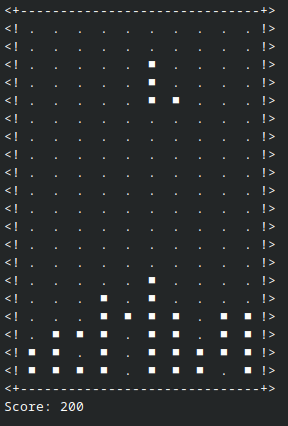
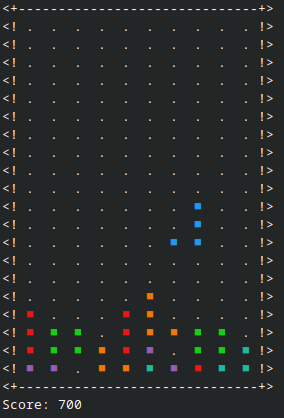
Implemented block coloring.

diff --git a/tetris.c b/tetris.c
@@ -1,3 +1,5 @@
+#include <stdarg.h>
+#include <stdint.h>
 #include <stdio.h>
 #include <stdlib.h>
 #include <unistd.h>
@@ -9,8 +11,7 @@
 //Macros
 #define WIDTH  10
 #define HEIGHT 20
-#define EMPTY '.'
-#define FULL '#'
+#define EMPTY 0
 #define DELAY_0 1000000  // 1000 ms
 #define DELAY_1 750000   // 750 ms
 #define DELAY_2 500000   // 500 ms
@@ -24,36 +25,51 @@
 #define FPS_60  16667
 #define FPS_30  33333
 
-//Global vars
-bool main_loop = true;
-
 struct Position {
     u_int8_t x;
     u_int8_t y;
 };
 
+typedef enum {
+    BLACK,
+    RED,
+    GREEN,
+    YELLOW,
+    BLUE,
+    MAGENTA,
+    CYAN,
+    WHITE
+} color;
+
+//Global vars
+bool main_loop = true;
+color current_color;
+
 //Play area operations
 void clear_screen();
 void draw_horizontal_line();
-void draw_area(char area[][WIDTH], int score);
+void draw_area(u_int8_t area[][WIDTH], int score);
 
 //Block operations
-void erase_block(char area[][WIDTH], struct Position *block);
-void draw_block(char area[][WIDTH], struct Position *block);
-bool move_block(char area[][WIDTH], struct Position *block, char direction);
-void spawn_block(char area[][WIDTH], struct Position *block);
-void rotate_block(char area[][WIDTH], struct Position *block);
+void erase_block(u_int8_t area[][WIDTH], struct Position *block);
+void draw_block(u_int8_t area[][WIDTH], struct Position *block);
+bool move_block(u_int8_t area[][WIDTH], struct Position *block, char direction);
+void spawn_block(u_int8_t area[][WIDTH], struct Position *block);
+void rotate_block(u_int8_t area[][WIDTH], struct Position *block);
 
 //Score counting functions
-void check_lines(char area[][WIDTH], int *score);
-void clear_line(char area[][WIDTH], size_t line);
+void check_lines(u_int8_t area[][WIDTH], int *score);
+void clear_line(u_int8_t area[][WIDTH], size_t line);
 long get_delay(int score);
+
+//Rendering
+void cprintf(const color color, const char * fstring, ...);
 
 int main(void) {
     srand(time(NULL));
 
     //Game area declaration
-    char play_area[HEIGHT][WIDTH];
+    u_int8_t play_area[HEIGHT][WIDTH];
 
     //Game area initialization
     for(int i = 0; i < HEIGHT; i++){
@@ -162,15 +178,15 @@ void draw_horizontal_line() {
     printf("+>\n");
 }
 
-void draw_area(char area[][WIDTH], int score) {
+void draw_area(u_int8_t area[][WIDTH], int score) {
     draw_horizontal_line();
     for (int i = 0; i < HEIGHT; i++) {
         printf("<!");
         for (int j = 0; j < WIDTH; j++) {
-            if(area[i][j] == FULL) {
-                printf( " %s ", "■");
+            if(area[i][j] != EMPTY) {
+                cprintf(area[i][j], " %s ", "■");
             } else{
-                printf(" %c ", EMPTY);
+                printf(" %c ", '.');
             }
         }
         printf("!>\n");
@@ -181,7 +197,7 @@ void draw_area(char area[][WIDTH], int score) {
 }
 
 //Deletes block based on coordinates
-void erase_block(char area[][WIDTH], struct Position *block) {
+void erase_block(u_int8_t area[][WIDTH], struct Position *block) {
     for(int i = 0; i < 4; i++) {
         u_int8_t tmp_x = block[i].x;
         u_int8_t tmp_y = block[i].y;
@@ -190,11 +206,11 @@ void erase_block(char area[][WIDTH], struct Position *block) {
 }
 
 //Translates the block coordinates into a drawn block
-void draw_block(char area[][WIDTH], struct Position *block) {
+void draw_block(u_int8_t area[][WIDTH], struct Position *block) {
     for(int i = 0; i < 4; i++) {
         u_int8_t tmp_x = block[i].x;
         u_int8_t tmp_y = block[i].y;
-        area[tmp_y][tmp_x] = FULL;
+        area[tmp_y][tmp_x] = current_color;
     }
 }
 
@@ -203,7 +219,7 @@ void draw_block(char area[][WIDTH], struct Position *block) {
  * inside the bounds and also handles collision with other blocks.
  * Returns true if the block has been placed and its possible to spawn a new one
  */
-bool move_block(char area[][WIDTH], struct Position *block, char direction) {
+bool move_block(u_int8_t area[][WIDTH], struct Position *block, char direction) {
     erase_block(area, block);
 
     bool bounds_ok, collision_ok;
@@ -227,7 +243,7 @@ bool move_block(char area[][WIDTH], struct Position *block, char direction) {
             for(int i = 0; i < 4; i++) {
                 u_int8_t tmp_x = block[i].x - 1; //Check the block after it
                 u_int8_t tmp_y = block[i].y;
-                if(area[tmp_y][tmp_x] == FULL){
+                if(area[tmp_y][tmp_x] != EMPTY){
                     collision_ok = false;
                     break;
                 }
@@ -259,7 +275,7 @@ bool move_block(char area[][WIDTH], struct Position *block, char direction) {
             for(int i = 0; i < 4; i++) {
                 u_int8_t tmp_x = block[i].x + 1; //Check the block after it
                 u_int8_t tmp_y = block[i].y;
-                if(area[tmp_y][tmp_x] == FULL){
+                if(area[tmp_y][tmp_x] != EMPTY){
                     collision_ok = false;
                     break;
                 }
@@ -301,7 +317,7 @@ bool move_block(char area[][WIDTH], struct Position *block, char direction) {
                         break;
                     }
                 }
-                if(!is_self && area[tmp_y][tmp_x] == FULL) {
+                if(!is_self && area[tmp_y][tmp_x] != EMPTY) {
                     collision_ok = false;
                     break;
                 }
@@ -347,7 +363,7 @@ bool move_block(char area[][WIDTH], struct Position *block, char direction) {
                         break;
                     }
                 }
-                if(!is_self && area[tmp_y][tmp_x] == FULL) {
+                if(!is_self && area[tmp_y][tmp_x] != EMPTY) {
                     collision_ok = false;
                     break;
                 }
@@ -378,8 +394,9 @@ bool move_block(char area[][WIDTH], struct Position *block, char direction) {
  * 5 = "squiggly" block facing left
  * 6 = "pyramid"
  */
-void spawn_block(char area[][WIDTH], struct Position *block) {
+void spawn_block(u_int8_t area[][WIDTH], struct Position *block) {
     int block_type = rand() % 7;
+    current_color = block_type + 1;
     uint mid = WIDTH/2;
 
     switch(block_type) {
@@ -463,7 +480,7 @@ void spawn_block(char area[][WIDTH], struct Position *block) {
     }
     //Check for gameover    
     for(int i = 0; i < 4; i++) {
-        if(area[block[i].y][block[i].x] == FULL) {
+        if(area[block[i].y][block[i].x] != EMPTY) {
             main_loop = false;
             return;
         }
@@ -481,7 +498,7 @@ long get_delay(int score) {
 }
 
 // Function clears the specified line and moves the remains of blocks down
-void clear_line(char area[][WIDTH], size_t line) {
+void clear_line(u_int8_t area[][WIDTH], size_t line) {
     //Clear line
     for(size_t i = 0; i < WIDTH; i++) area[line][i] = EMPTY; 
 
@@ -494,14 +511,14 @@ void clear_line(char area[][WIDTH], size_t line) {
 }
 
 // Function checks for completed lines and incrementes the score appropriately (n lines = n*100 points)
-void check_lines(char area[][WIDTH], int *score) {
+void check_lines(u_int8_t area[][WIDTH], int *score) {
     u_int8_t total_lines = 0;
     u_int8_t row_sum = 0;
 
     //Count the score
     for(size_t i = 0; i < HEIGHT; i++) {
         for(size_t j = 0; j < WIDTH; j++) {
-            if(area[i][j] == FULL) row_sum++;
+            if(area[i][j] != EMPTY) row_sum++;
         }
         if(row_sum == WIDTH) {
             clear_line(area, i);
@@ -513,7 +530,7 @@ void check_lines(char area[][WIDTH], int *score) {
 }
 
 //Function rotates the block clockwise
-void rotate_block(char area[][WIDTH], struct Position * block) {
+void rotate_block(u_int8_t area[][WIDTH], struct Position * block) {
     bool check_square_y = (block[0].y == block[1].y) && (block[2].y == block[3].y);
     bool check_square_x = (block[0].x == block[2].x) && (block[1].x == block[3].x);
     if(check_square_x && check_square_y) return; //Do not rotate if its a square
@@ -555,4 +572,18 @@ void rotate_block(char area[][WIDTH], struct Position * block) {
         block[i].y = tmp_arr[i].y;
     }
     draw_block(area, block);
+}
+
+/*
+* This function prints the provided formated string in the wanted color.
+* Requires the color enum.
+*/
+void cprintf(const color color, const char * fstring, ...) {
+    va_list args;
+    va_start(args, fstring);
+    //Since the list is formated in order we can just add the colors
+    printf("\033[%dm", 30 + color);
+    vprintf(fstring, args);
+    printf("\033[0m");
+    va_end(args);
 }
